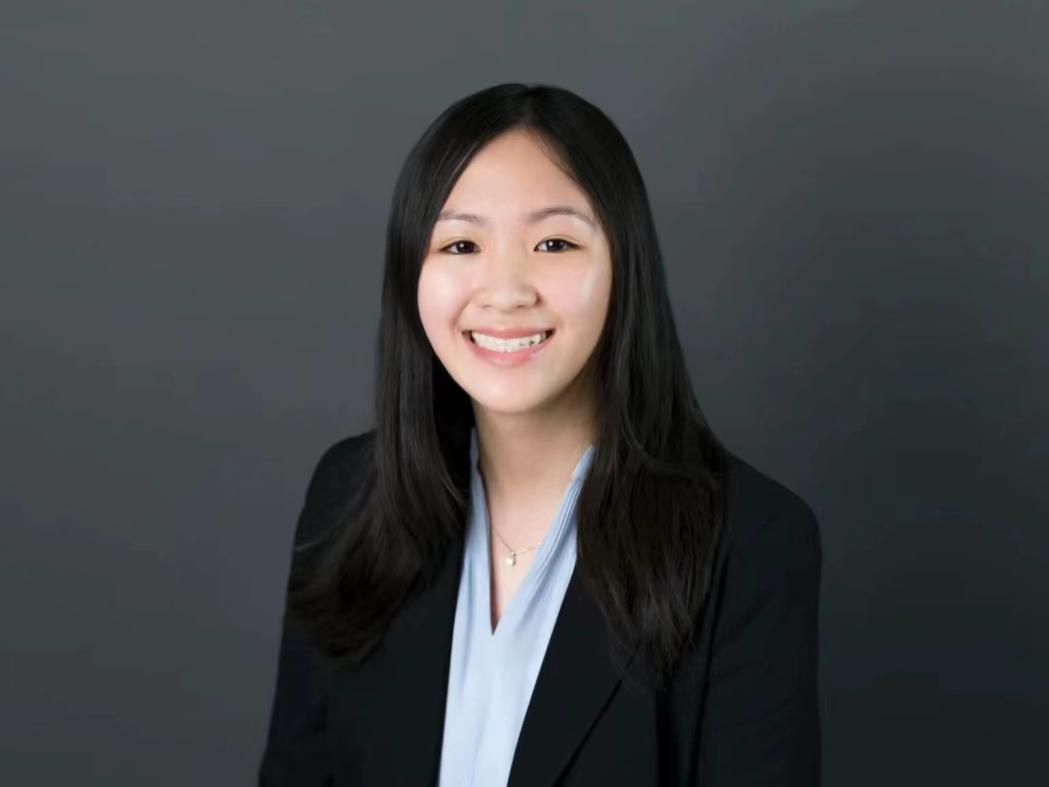
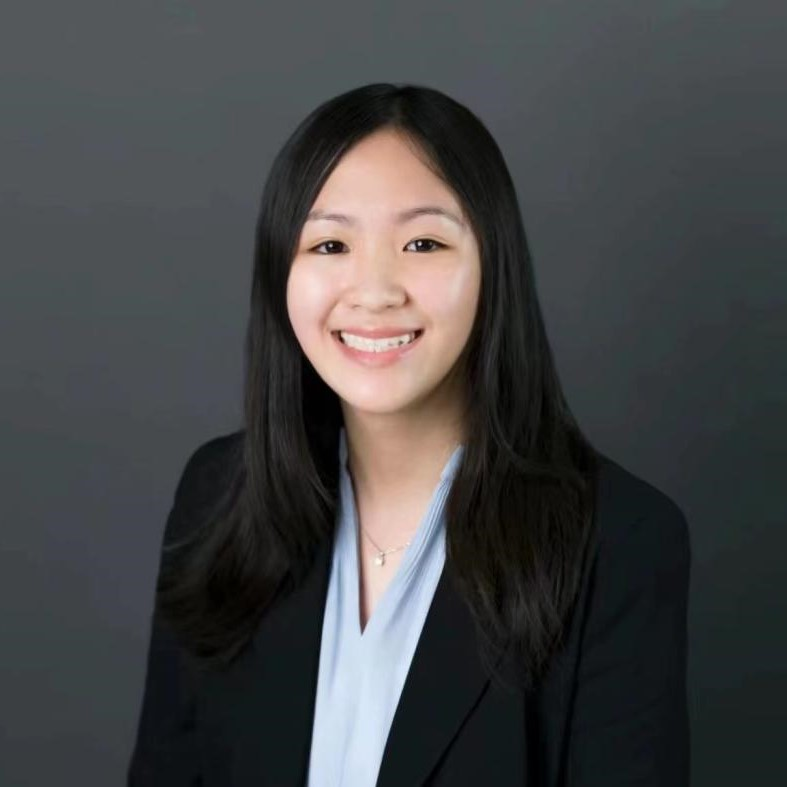
Exec board carousel updated

diff --git a/about.html b/about.html
@@ -98,6 +98,7 @@
 			</p>
 			</br></br></br></br></br>
 			<!--added on 9/6/22-->
+			<!--
 			<br><br><br><br><br> 
 			<h2>Executive Board</h2>
 			<ul>
@@ -108,7 +109,8 @@
 				<li>VP Internal: Christina Xie</li>
 				<li>VP External: Brian Tam</li>
 			</ul>
-			<!--
+			-->
+			
 			<div class='demo-container'>
 				<div class='carousel'>
 				  <input class='carousel__activator' type='radio' checked id='carousel-slide-activator-1' name='carousel'>
@@ -136,86 +138,107 @@
 					<div class='carousel__track'>
 					  <div class='carousel__item carousel__item--mobile-in-1 carousel__item--tablet-in-2 carousel__item--desktop-in-3'>
 						<div class='carousel__image'>
-							<a href='https://www.linkedin.com/in/philliptan7/' target='_blank'>
-								<img src="images/profile/21-22/Phillip.jpg" alt="" />
-								<p class="icon fa-linkedin"></p>
-							</a>
-							
-						</div>
-						<p class='name'>Phillip Tan</p>
-						<p class='title'>President</p>
-					  </div>
-					  <div class='carousel__item carousel__item--mobile-in-1 carousel__item--tablet-in-2 carousel__item--desktop-in-3'>
-						<div class='carousel__image'>
-							<a href='https://www.linkedin.com/in/disha-birla-9616671b2/' target='_blank'>
-								<img src="images/profile/21-22/Disha.jpg" alt="" />
-								<p class="icon fa-linkedin"></p>
-							</a>
-							
-						</div>
-						<p class='name'>Disha Birla</p>
-						<p class='title'>VP External</p>
-					  </div>
-					  <div class='carousel__item carousel__item--mobile-in-1 carousel__item--tablet-in-2 carousel__item--desktop-in-3'>
-						<div class='carousel__image'>
-							<a href='https://www.linkedin.com/in/lillianlwei/' target='_blank'>
-								<img src="images/profile/21-22/Lillian.jpg" alt="" />
-								<p class="icon fa-linkedin"></p>
-							</a>
-							
-						</div>
-						<p class='name'>Lillian Wei</p>
-						<p class='title'>Co-VP Marketing</p>
-					  </div>
-					  <div class='carousel__item carousel__item--mobile-in-1 carousel__item--tablet-in-2 carousel__item--desktop-in-3'>
-						<div class='carousel__image'>
-							<a href='https://www.linkedin.com/in/rachel-yue-zhang/' target='_blank'>
-								<img src="images/profile/21-22/Rachel.jpg" alt="" />
+							<a href='https://www.linkedin.com/in/rachel-yue-zhang-1a4a701a3/' target='_blank'>
+								<img src="images\profile\22-23\Rachel.jpg" alt="" />
 								<p class="icon fa-linkedin"></p>
 							</a>
 							
 						</div>
 						<p class='name'>Rachel Zhang</p>
-						<p class='title'>Co-VP Marketing</p>
-					  </div>
-					  <div class='carousel__item carousel__item--mobile-in-1 carousel__item--tablet-in-2 carousel__item--desktop-in-3'>
-						<div class='carousel__image'>
-							<a href='https://www.linkedin.com/in/kelly-jan-03018a1b8/' target='_blank'>
-								<img src="images/profile/21-22/Kelly.jpg" alt="" />
-								<p class="icon fa-linkedin"></p>
-							</a>
-							
-						</div>
-						<p class='name'>Kelly Jan</p>
-						<p class='title'>VP Internal</p>
+						<p class='title'>President</p>
 					  </div>
 					  <div class='carousel__item carousel__item--mobile-in-1 carousel__item--tablet-in-2 carousel__item--desktop-in-3'>
 						<div class='carousel__image'>
 							<a href='https://www.linkedin.com/in/seanmchoi/' target='_blank'>
-								<img src="images/profile/21-22/Sean.jpg" alt="" />
+								<img src="images\profile\22-23\Sean.jpg" alt="" />
 								<p class="icon fa-linkedin"></p>
 							</a>
 							
 						</div>
 						<p class='name'>Sean Choi</p>
-						<p class='title'>VP Finance</p>
+						<p class='title'>President</p>
 					  </div>
 					  <div class='carousel__item carousel__item--mobile-in-1 carousel__item--tablet-in-2 carousel__item--desktop-in-3'>
 						<div class='carousel__image'>
-							<a href='https://www.linkedin.com/in/sheldonzhu/' target='_blank'>
-								<img src="images/profile/21-22/Sheldon.jpg" alt="" />
+							<a href='https://www.linkedin.com/in/zachary-gee-5a91481b8/' target='_blank'>
+								<img src="images\profile\22-23\Zach.jpg" alt="" />
+								<p class="icon fa-linkedin"></p>
+							</a>
+						</div>
+						<p class='name'>Zachary Gee</p>
+						<p class='title'>VP Marketing</p>
+					  </div>
+					  <div class='carousel__item carousel__item--mobile-in-1 carousel__item--tablet-in-2 carousel__item--desktop-in-3'>
+						<div class='carousel__image'>
+							<a href='https://www.linkedin.com/in/justin-tang-a21412223/' target='_blank'>
+								<img src="images\profile\22-23\Justin_Headshot.png" alt="" />
 								<p class="icon fa-linkedin"></p>
 							</a>
 							
 						</div>
-						<p class='name'>Sheldon Zhu</p>
+						<p class='name'>Justin Tang</p>
+						<p class='title'>VP Marketing</p>
+					  </div>
+					  <div class='carousel__item carousel__item--mobile-in-1 carousel__item--tablet-in-2 carousel__item--desktop-in-3'>
+						<div class='carousel__image'>
+							<a href='https://www.linkedin.com/in/brian-tam-6523121ba/' target='_blank'>
+								<img src="images\profile\22-23\brian.jpg" alt="" />
+								<p class="icon fa-linkedin"></p>
+							</a>
+							
+						</div>
+						<p class='name'>Brian Tam</p>
+						<p class='title'>VP External</p>
+					  </div>
+					  <div class='carousel__item carousel__item--mobile-in-1 carousel__item--tablet-in-2 carousel__item--desktop-in-3'>
+						<div class='carousel__image'>
+							<a href='https://www.linkedin.com/in/christina-xie-6a4148199/' target='_blank'>
+								<img src="images\profile\22-23\Christina.jpg" alt="" />
+								<p class="icon fa-linkedin"></p>
+							</a>
+							
+						</div>
+						<p class='name'>Christina Xie</p>
+						<p class='title'>VP Internal</p>
+					  </div>
+					  <div class='carousel__item carousel__item--mobile-in-1 carousel__item--tablet-in-2 carousel__item--desktop-in-3'>
+						<div class='carousel__image'>
+							<a href='https://www.linkedin.com/in/sophia-yx-liang/' target='_blank'>
+								<img src="images\profile\22-23\Sophia.jpg" alt="" />
+								<p class="icon fa-linkedin"></p>
+							</a>
+							
+						</div>
+						<p class='name'>Sophia Lang</p>
+						<p class='title'>VP Finance</p>
+					  </div>
+					  <div class='carousel__item carousel__item--mobile-in-1 carousel__item--tablet-in-2 carousel__item--desktop-in-3'>
+						<div class='carousel__image'>
+							<a href='https://www.linkedin.com/in/igor-aprelev/' target='_blank'>
+								<img src="images\profile\22-23\Igor.jpg" alt="" />
+								<p class="icon fa-linkedin"></p>
+							</a>
+							
+						</div>
+						<p class='name'>Igor Aprelev</p>
+						<p class='title'>VP Tech Ops</p>
+					  </div>
+					  <div class='carousel__item carousel__item--mobile-in-1 carousel__item--tablet-in-2 carousel__item--desktop-in-3'>
+						<div class='carousel__image'>
+							<a href='https://www.linkedin.com/in/kellygyu/' target='_blank'>
+								<img src="images\profile\22-23\kelly.jpg" alt="" />
+								<p class="icon fa-linkedin"></p>
+							</a>
+							
+						</div>
+						<p class='name'>Kelly Yu</p>
 						<p class='title'>VP Tech Ops</p>
 					  </div>
 					</div>
 				  </div>
 				</div>
 			  </div>
-			-->
+			
 
 		</br></br></br>
 	</br></br></br>

diff --git a/events.html b/events.html
@@ -72,8 +72,7 @@
 				-->
 				<div class="6u 12u$(xsmall)">
 					<div class="image fit captioned">
-						<!-- <a href="https://www.facebook.com/events/553910382490022/?event_time_id=553910395823354"> -->
-						<a href="recruitment.html"><img src="images\media22-23\Recruitment_Banner22.png" /><h3>Fall 2022 Recruitment</h3></a>
+						<a href="recruitment.html"><img src="images\media22-23\Updated_Recruitment_Banner.png" /><h3>Fall 2022 Recruitment</h3></a>
 					</div>
 				</div>
 				<!-- <div class="6u 12u$(xsmall)">

diff --git a/assets/css/main.css b/assets/css/main.css
@@ -2332,7 +2332,7 @@
 			border-radius: 4px;		
 			display: flex;
 			flex-direction: column;	
-			padding: 15px;
+			/*padding: 15px; */
 		}
 
 		.image.left, .image.right {
@@ -2345,6 +2345,7 @@
 				max-width: 90%;
 				position: relative;
 				height: auto;
+				padding: 15px;
 			}
 
 		.image.left.flyer{
